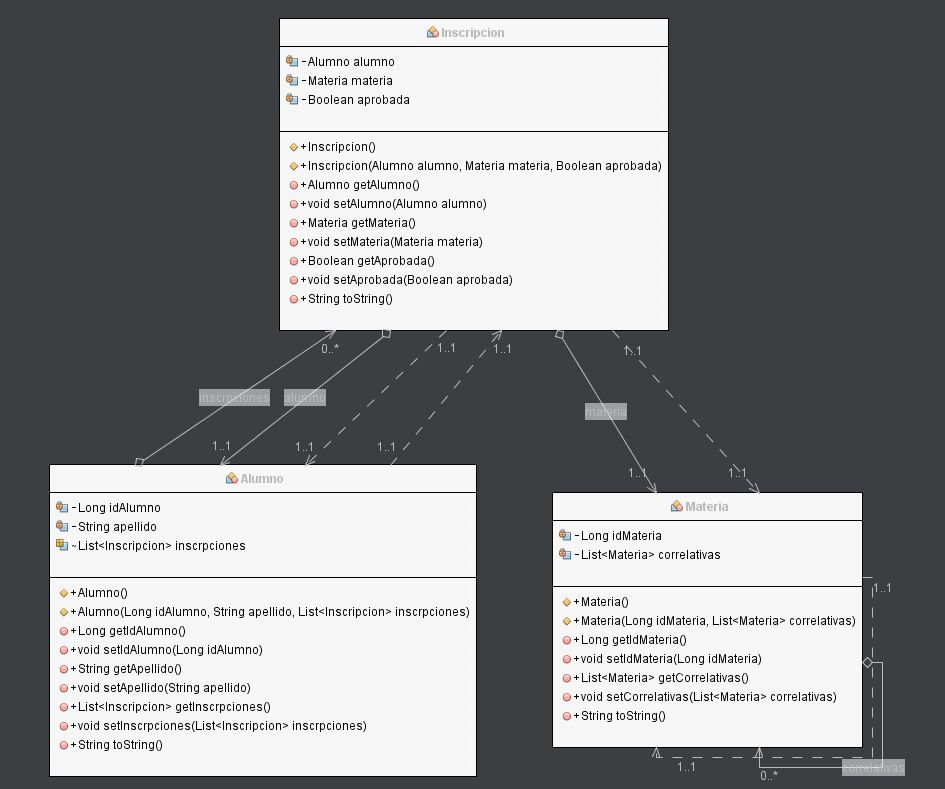
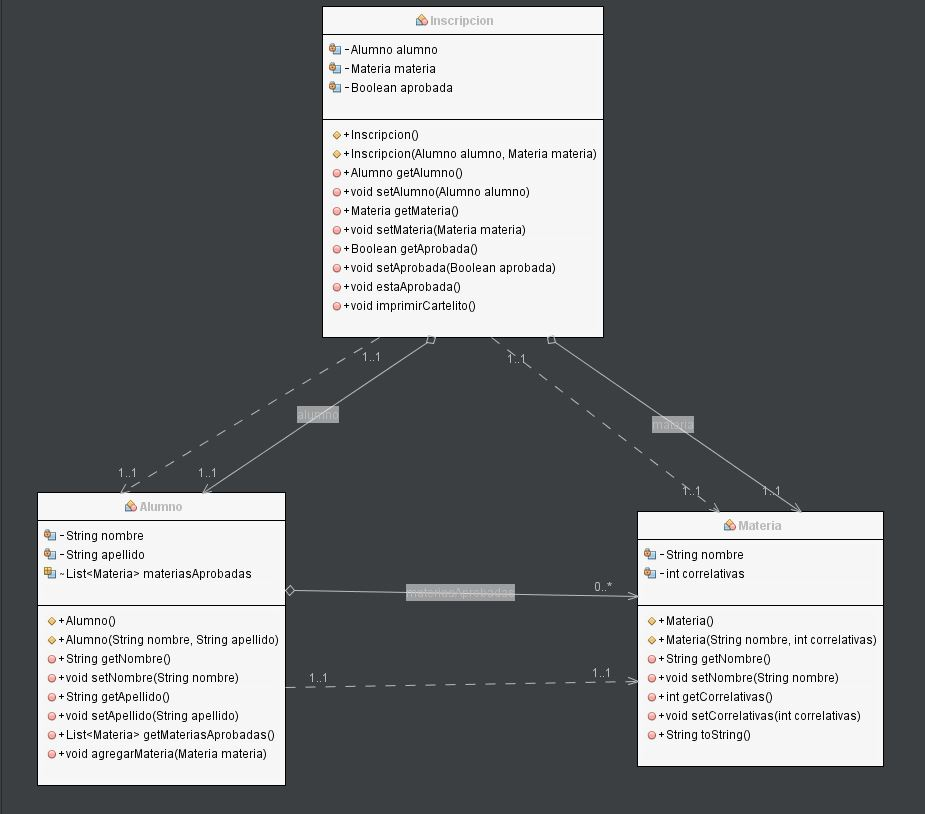
Actividad 01 , entrega Final

diff --git a/Actividad_01/src/modelo/Alumno.java b/Actividad_01/src/modelo/Alumno.java
@@ -1,29 +1,29 @@
 package modelo;
 
+import java.util.ArrayList;
 import java.util.List;
 
 public class Alumno {
-     private Long idAlumno;
+
+    private String nombre;
     private String apellido;
-    List <Inscripcion> inscrpciones;
+    List<Materia> materiasAprobadas;
 
     public Alumno() {
     }
 
-    public Alumno(Long idAlumno, String apellido, List<Inscripcion> inscrpciones) {
-        this.idAlumno = idAlumno;
+    public Alumno(String nombre, String apellido) {
+        this.nombre = nombre;
         this.apellido = apellido;
-        this.inscrpciones = inscrpciones;
+        this.materiasAprobadas = new ArrayList<>();
     }
 
-    
-
-    public Long getIdAlumno() {
-        return idAlumno;
+    public String getNombre() {
+        return nombre;
     }
 
-    public void setIdAlumno(Long idAlumno) {
-        this.idAlumno = idAlumno;
+    public void setNombre(String nombre) {
+        this.nombre = nombre;
     }
 
     public String getApellido() {
@@ -34,16 +34,12 @@ public class Alumno {
         this.apellido = apellido;
     }
 
-    public List<Inscripcion> getInscrpciones() {
-        return inscrpciones;
+    public List<Materia> getMateriasAprobadas() {
+        return materiasAprobadas;
     }
 
-    public void setInscrpciones(List<Inscripcion> inscrpciones) {
-        this.inscrpciones = inscrpciones;
+    public void agregarMateria(Materia materia) {
+        this.materiasAprobadas.add(materia);
     }
-
-    @Override
-    public String toString() {
-        return "Materia{" + "idAlumno=" + idAlumno + ", apellido=" + apellido + ", inscrpciones=" + inscrpciones + '}';
-    }
+    
 }

diff --git a/Actividad_01/src/principal/Main.java b/Actividad_01/src/principal/Main.java
@@ -1,10 +1,59 @@
 
 package principal;
 
+import modelo.Alumno;
+import modelo.Inscripcion;
+import modelo.Materia;
+
 public class Main {
     
     public static void main(String[] args) {
         
+        /**
+         * Creando  alumnos
+         */
+        
+        Alumno alumno = new Alumno("Marcelo","Peralta" );
+        Alumno alumna = new Alumno("Silvia","Quinteros");
+        
+        /**
+         * Creando materias
+         */
+        
+        Materia mateUno = new Materia("Matematica 1", 0);
+        Materia mateDos = new Materia("Matematica 2", 1);
+        Materia mateTres = new Materia("Matematica 3", 2);
+        /**
+         * Cargando Corelativas
+         */
+             
+        /**
+         * Cargando materias aprobadas - Alumna
+         */
+       alumna.agregarMateria(mateUno);
+       alumna.agregarMateria(mateDos);
+     
+        
+        /**
+         *  Creando Dos Inscripcion
+         * Caso 1 - Inscrpcion de Materia sin correlativa
+         * Caso 2 - Inscrpcion de Materia con correlativa
+         */
+       Inscripcion inscripcion1 = new Inscripcion(alumno, mateUno);
+       inscripcion1.estaAprobada();
+       inscripcion1.imprimirCartelito();
+       
+       Inscripcion inscripcion2 = new Inscripcion(alumna, mateDos);
+       inscripcion2.estaAprobada();
+       inscripcion2.imprimirCartelito();
+       
+       /**
+        * Modifico La materia de la Inscripcion 2
+        */
+        
+       inscripcion2.setMateria(mateTres);
+       inscripcion2.estaAprobada();
+       inscripcion2.imprimirCartelito();
     }
     
 }

diff --git a/Actividad_01/src/modelo/Inscripcion.java b/Actividad_01/src/modelo/Inscripcion.java
@@ -1,7 +1,9 @@
-
 package modelo;
 
+import javax.swing.JOptionPane;
+
 public class Inscripcion {
+
     private Alumno alumno;
     private Materia materia;
     private Boolean aprobada;
@@ -9,10 +11,10 @@ public class Inscripcion {
     public Inscripcion() {
     }
 
-    public Inscripcion(Alumno alumno, Materia materia, Boolean aprobada) {
+    public Inscripcion(Alumno alumno, Materia materia) {
         this.alumno = alumno;
         this.materia = materia;
-        this.aprobada = aprobada;
+        this.aprobada = false;
     }
 
     public Alumno getAlumno() {
@@ -39,10 +41,20 @@ public class Inscripcion {
         this.aprobada = aprobada;
     }
 
-    @Override
-    public String toString() {
-        return "Inscripcion{" + "alumno=" + alumno + ", materia=" + materia + ", aprobada=" + aprobada + '}';
+    public void estaAprobada() {
+        final boolean totalCorrelativas = materia.getCorrelativas() == 0;
+        final boolean comparacionAprobadasCorrelativas = materia.getCorrelativas() == alumno.getMateriasAprobadas().size();
+
+        if (totalCorrelativas || comparacionAprobadasCorrelativas) {
+            this.setAprobada(true);
+        }
     }
-    
-    
+
+    public void imprimirCartelito() {
+        if (aprobada) {
+            System.out.println("Inscripcion Aprobada");
+        }else{
+            System.out.println("Inscripcion Rechazada");
+        }
+    }
 }

diff --git a/Actividad_01/src/modelo/Materia.java b/Actividad_01/src/modelo/Materia.java
@@ -1,40 +1,40 @@
-
 package modelo;
 
-import java.util.List;
-
 public class Materia {
-   private Long idMateria;
-    private List<Materia> correlativas;
+
+    private String nombre;
+    private int correlativas;
 
     public Materia() {
     }
 
-    public Materia(Long idMateria, List<Materia> correlativas) {
-        this.idMateria = idMateria;
+    public Materia(String nombre, int correlativas) {
+        this.nombre = nombre;
         this.correlativas = correlativas;
     }
 
-    public Long getIdMateria() {
-        return idMateria;
+    public String getNombre() {
+        return nombre;
     }
 
-    public void setIdMateria(Long idMateria) {
-        this.idMateria = idMateria;
+    public void setNombre(String nombre) {
+        this.nombre = nombre;
     }
 
-    public List<Materia> getCorrelativas() {
+    public int getCorrelativas() {
         return correlativas;
     }
 
-    public void setCorrelativas(List<Materia> correlativas) {
+    public void setCorrelativas(int correlativas) {
         this.correlativas = correlativas;
     }
 
     @Override
     public String toString() {
-        return "Materia{" + "idMateria=" + idMateria + ", correlativas=" + correlativas + '}';
+        return "Materia{" + "nombre=" + nombre + ", correlativas=" + correlativas + '}';
     }
+
+   
+
     
-    
-    }
+}
